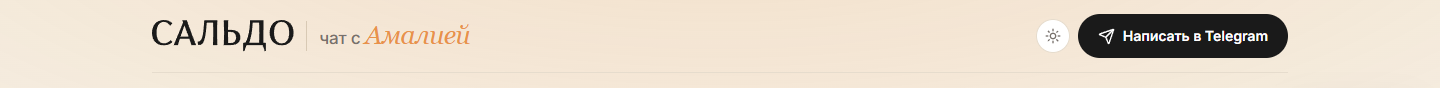
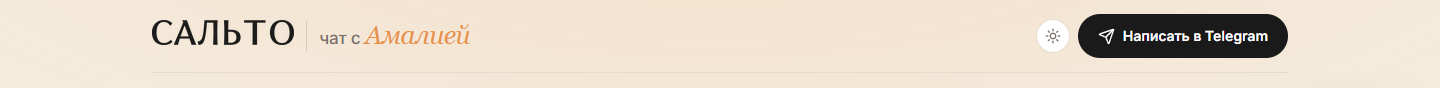
fix(client): keep the phone field one line and stop Safari zooming
Поле ввода на телефоне открывалось высотой в максимум, а в Safari страница
уезжала при фокусе. Оба дефекта про одно и то же поле, но причины разные.

Высота. Она записывалась инлайн один раз за монтирование, из одного чтения
scrollHeight, и любая причина, по которой это единственное чтение оказывалось
неверным, превращалась в поле, застрявшее на максимуме до перезагрузки: эффект
висел на изменении значения, а значение не менялось, перезаписывать было
нечем. Воспроизвести не удалось ни в Chromium, ни в WebKit, ни на версии кода
до этой правки - 41px при любом размере окна, включая специально растянутый
родитель и шпион на геттере scrollHeight. Поэтому убрано не предполагаемое
место поломки, а само место, где число могло застрять: высота теперь приходит
из CSS (field-sizing: content, max-height как потолок), инлайн-стиля нет
вообще. Побочно выяснилось, что field-sizing меряет и плейсхолдер: на 320px
строка подсказки переносилась и тянула поле на две строки, поэтому
::placeholder получил white-space: nowrap.

Зум. Поле наследовало 15px от body, а iOS Safari зумит страницу при фокусе на
поле с размером шрифта меньше 16px и обратно не раззумивает: страница
оставалась увеличенной и сдвинутой, шапка за верхним краем, вернуть только
перезагрузкой. Ниже брейкпоинта поле теперь 16px - это порог, а не вкус.

Пустой экран на телефоне. Примеры вопросов скрыты: четыре белые карточки с той
же рамкой и скруглением, что и у поля, стоят прямо над ним, и экран читался
[…]

Changed region(s): [[0.0938, 0.2273, 0.2188, 0.5682]]

diff --git a/client/src/components/Logo.tsx b/client/src/components/Logo.tsx
@@ -19,11 +19,12 @@ export function Logo({ className, height = 20 }: Props) {
       fill="none"
       xmlns="http://www.w3.org/2000/svg"
       role="img"
-      aria-label="Салдо"
+      aria-label="Салто"
       focusable="false"
     >
       <path
-        d="M13.3192 28.4783C4.15922 28.4783 -0.000781178 22.2783 -0.000781178 14.2383C-0.000781178 6.59828 4.55922 -0.00171995 13.2792 -0.00171995C17.4392 -0.00171995 20.6392 1.39828 22.7992 3.63828L20.5192 6.55828C18.4392 3.63828 16.5592 2.15828 13.2792 2.15828C7.03922 2.15828 5.11922 8.27828 5.11922 14.2383C5.11922 20.1583 6.95922 26.2783 13.5992 26.2783C16.6792 26.2783 19.1192 24.7183 21.0392 22.5983L22.9992 24.8383C20.8392 27.0383 17.6392 28.4783 13.3192 28.4783ZM41.1695 18.6783C39.7295 14.4783 38.1295 10.1983 36.5295 6.19828C35.1295 9.99828 33.4495 14.4783 32.0095 18.6783H41.1695ZM24.3695 28.2383C27.9295 19.6783 32.0495 10.5583 35.0095 2.51828C34.6495 1.71828 34.3295 0.95828 33.9295 0.238279H39.2095C41.5695 7.15828 46.5295 20.9583 49.6495 28.2383H44.3295C43.6495 26.0383 42.8895 23.6383 42.0495 21.1583H31.2095C30.3695 23.7183 29.6495 26.1983 29.2095 28.2383H24.3695ZM51.2617 24.4383C53.7017 24.5183 55.3417 22.6783 56.1017 20.7183C57.8217 16.1183 58.2617 7.87828 58.8217 0.238279H73.5417C73.1417 8.67828 73.1817 18.7183 73.5417 28.2383H68.5817C69.0217 19.7583 69.1017 11.1983 68.7417 2.95828H61.5817C61.2617 7.95828 60.5017 16.7583 59.0617 21.6783C57.9817 25.5583 56.6617 28.5583 51.9817 28.2383L51.2617 24.4383ZM80.7445 28.2383C81.2645 18.9983 81.2645 9.67828 80.7445 0.238279H85.7445C85.6245 3.87828 85.5445 7.47828 85.5045 11.0783H88.4645C94.0245 11.0783 99.3845 12.9583 99.3845 19.6783C99.3845 26.3983 93.9445 28.2383 88.2245 28.2383H80.7445ZM88.5445 25.9183C91.4245 25.9183 94.6645 24.5183 94.6645 19.6783C94.6645 14.7983 91.4245 13.3983 88.5445 13.3983H85.5045C85.4645 17.5583 85.5445 21.7183 85.6645 25.9183H88.5445ZM120.526 25.5983C120.806 17.9583 120.846 10.3983 120.526 2.95828H113.206C113.086 8.83828 111.926 19.3583 109.286 25.5983H120.526ZM105.166 25.2783C108.686 19.8783 110.366 7.83828 110.286 0.238279H125.406C125.086 8.67828 125.086 17.1983 125.326 25.5983L128.126 25.7183V35.0783H126.686C126.126 32.9983 125.286 30.3183 124.366 28.2383H106.326C105.406 30.3183 104.566 32.9983 104.006 35.0783H102.566V25.7183L105.166 25.2783ZM145.823 28.4783C136.503 28.4783 132.343 21.4783 132.343 14.2383C132.343 6.99828 136.503 -0.00171995 145.823 -0.00171995C155.103 -0.00171995 159.263 6.99828 159.263 14.2383C159.263 21.4783 155.103 28.4783 145.823 28.4783ZM145.823 26.2783C152.503 26.2783 154.343 19.6383 154.343 14.2383C154.343 8.79828 152.503 2.15828 145.823 2.15828C139.343 2.15828 137.303 8.39828 137.303 14.2383C137.303 19.6383 139.143 26.2783 145.823 26.2783Z"
+        transform="translate(0 3.88)"
+        d="M13.3192 28.4783C4.15922 28.4783 -0.000781178 22.2783 -0.000781178 14.2383C-0.000781178 6.59828 4.55922 -0.00171995 13.2792 -0.00171995C17.4392 -0.00171995 20.6392 1.39828 22.7992 3.63828L20.5192 6.55828C18.4392 3.63828 16.5592 2.15828 13.2792 2.15828C7.03922 2.15828 5.11922 8.27828 5.11922 14.2383C5.11922 20.1583 6.95922 26.2783 13.5992 26.2783C16.6792 26.2783 19.1192 24.7183 21.0392 22.5983L22.9992 24.8383C20.8392 27.0383 17.6392 28.4783 13.3192 28.4783ZM41.1695 18.6783C39.7295 14.4783 38.1295 10.1983 36.5295 6.19828C35.1295 9.99828 33.4495 14.4783 32.0095 18.6783H41.1695ZM24.3695 28.2383C27.9295 19.6783 32.0495 10.5583 35.0095 2.51828C34.6495 1.71828 34.3295 0.95828 33.9295 0.238279H39.2095C41.5695 7.15828 46.5295 20.9583 49.6495 28.2383H44.3295C43.6495 26.0383 42.8895 23.6383 42.0495 21.1583H31.2095C30.3695 23.7183 29.6495 26.1983 29.2095 28.2383H24.3695ZM51.2617 24.4383C53.7017 24.5183 55.3417 22.6783 56.1017 20.7183C57.8217 16.1183 58.2617 7.87828 58.8217 0.238279H73.5417C73.1417 8.67828 73.1817 18.7183 73.5417 28.2383H68.5817C69.0217 19.7583 69.1017 11.1983 68.7417 2.95828H61.5817C61.2617 7.95828 60.5017 16.7583 59.0617 21.6783C57.9817 25.5583 56.6617 28.5583 51.9817 28.2383L51.2617 24.4383ZM80.7445 28.2383C81.2645 18.9983 81.2645 9.67828 80.7445 0.238279H85.7445C85.6245 3.87828 85.5445 7.47828 85.5045 11.0783H88.4645C94.0245 11.0783 99.3845 12.9583 99.3845 19.6783C99.3845 26.3983 93.9445 28.2383 88.2245 28.2383H80.7445ZM88.5445 25.9183C91.4245 25.9183 94.6645 24.5183 94.6645 19.6783C94.6645 14.7983 91.4245 13.3983 88.5445 13.3983H85.5045C85.4645 17.5583 85.5445 21.7183 85.6645 25.9183H88.5445ZM103.4 0.238279H127.3V2.95828H117.85V28.2383H112.85V2.95828H103.4ZM145.823 28.4783C136.503 28.4783 132.343 21.4783 132.343 14.2383C132.343 6.99828 136.503 -0.00171995 145.823 -0.00171995C155.103 -0.00171995 159.263 6.99828 159.263 14.2383C159.263 21.4783 155.103 28.4783 145.823 28.4783ZM145.823 26.2783C152.503 26.2783 154.343 19.6383 154.343 14.2383C154.343 8.79828 152.503 2.15828 145.823 2.15828C139.343 2.15828 137.303 8.39828 137.303 14.2383C137.303 19.6383 139.143 26.2783 145.823 26.2783Z"
         fill="currentColor"
       />
     </svg>

diff --git a/client/src/styles/app.css b/client/src/styles/app.css
@@ -965,19 +965,39 @@ button {
   box-shadow: 0 0 0 3px var(--accent-soft), var(--shadow-card);
 }
 
+/*
+ * The box follows the text, and the browser does the measuring: `field-sizing`
+ * sizes the element to its content, `max-height` is the ceiling, and the field
+ * scrolls inside itself past it. There used to be a `useLayoutEffect` writing an
+ * inline height here from a single read of `scrollHeight` - and one read taken
+ * once per mount is one chance to get it wrong, permanently. Browsers without
+ * `field-sizing` fall back to the single row `rows={1}` asks for.
+ */
 .composer__input {
   width: 100%;
+  field-sizing: content;
   max-height: 200px;
   padding: 9px 0;
   border: 0;
   background: transparent;
   resize: none;
+  overflow-y: auto;
   line-height: 1.5;
   outline: none;
 }
 
 .composer__input::placeholder {
   color: var(--muted);
+  /*
+   * One line, always. With `field-sizing: content` the placeholder is part of
+   * what the box is measured against, and on a 320px screen the sentence wraps
+   * and takes the field to two lines with it - an empty field that opens 66px
+   * tall for no reason the person can see. Held to a single line it ellipsises
+   * instead, and the field stays the height of one row wherever it is.
+   */
+  white-space: nowrap;
+  overflow: hidden;
+  text-overflow: ellipsis;
 }
 
 .button {
@@ -1453,8 +1473,56 @@ kbd {
     display: none;
   }
 
+  /*
+   * Sixteen pixels, and it is not a taste decision. iOS Safari zooms the page in
+   * when a field whose font-size is below 16px takes focus - this field inherits
+   * the 15px body size - and it does not zoom back out when the field is left.
+   * The page stays scaled and panned, the header half off the top of the screen,
+   * and only a reload brings it back. Sixteen is the threshold, not a
+   * preference, and that is the only reason the size is raised here rather than
+   * everywhere.
+   */
+  .composer__input {
+    font-size: 16px;
+    /*
+     * A shorter ceiling than the wide screen's 200px: here the field shares the
+     * screen with a heading, a lead and the switch below it, and past about four
+     * lines it is the conversation that runs out of room, not the question.
+     */
+    max-height: 116px;
+  }
+
+  /*
+   * The example questions go on a phone. They are white cards with a hairline
+   * border and a rounded corner - the field's own shape - stacked directly above
+   * the field, and the screen reads as five inputs, four of which do nothing
+   * useful when tapped by mistake. What is left is the heading, the lead and the
+   * field, which is the whole of an empty state a phone needs.
+   */
   .empty__suggestions {
-    grid-template-columns: minmax(0, 1fr);
+    display: none;
+  }
+
+  /*
+   * With the examples gone the field closes the lead directly, and the two
+   * margins that used to sit either side of the list would stack into a 44px
+   * hole under the last line of text. The lead's own margin is the gap.
+   */
+  .empty__composer {
+    margin-top: 0;
+  }
+
+  /*
+   * The block is centred as a whole, and the field goes up with it instead of
+   * sitting at the bottom of the column.
+   *
+   * `margin-block: auto` rather than `justify-content: center` on the log: auto
+   * margins take the free space when there is some and collapse to zero when
+   * there is not, so the heading keeps its top on a screen too short for the
+   * block - which is what an iPhone with the keyboard up is.
+   */
+  .empty {
+    margin-block: auto;
   }
 
   .hint:nth-child(2) {

diff --git a/client/src/App.tsx b/client/src/App.tsx
@@ -9,7 +9,6 @@ import { MessageComposer } from './components/MessageComposer';
 import { TypingIndicator } from './components/TypingIndicator';
 import { useAnswerMode } from './hooks/useAnswerMode';
 import { useChat } from './hooks/useChat';
-import { useMediaQuery } from './hooks/useMediaQuery';
 import { useSkin } from './hooks/useSkin';
 import { useStickToBottom } from './hooks/useStickToBottom';
 import { useTheme } from './hooks/useTheme';
@@ -94,14 +93,20 @@ export default function App() {
   const isBlank = visibleMessages.length === 0 && !isGenerating;
 
   /*
-   * On a phone the empty state is taller than the log, so anything inside it
-   * can end up below the fold - and the field is the one thing that must never
-   * be. Below the same breakpoint the stylesheet switches to the phone layout,
-   * so the field becomes a row of the column there, pinned to the bottom, and
-   * the example questions scroll above it. The breakpoint is the stylesheet's
-   * 680px; the two have to agree.
+   * The field used to be a row of this column on a phone and a part of the
+   * empty state everywhere else, because the empty state - a heading, a lead
+   * and four example questions - was taller than the log, and anything inside
+   * it could scroll out of reach. That reasoning is gone: the examples are
+   * hidden below the breakpoint, the keyboard hints were already, and the field
+   * no longer grows on its own. What is left is short enough to fit on the
+   * shortest phone, so the field stays where it reads best - directly under the
+   * heading, closing the block - and the breakpoint has nothing left to decide.
+   *
+   * Centring is done by the stylesheet with auto margins rather than by
+   * `justify-content`, which is what keeps it honest when the block does not
+   * fit: auto margins collapse to zero on overflow, so the top of the heading
+   * is never the part that goes missing.
    */
-  const narrow = useMediaQuery('(max-width: 680px)');
 
   // `!isBlank` and not `true`: sticking to the bottom of an empty log scrolls
   // the centred empty state up under the header. See the hook for the numbers.
@@ -148,10 +153,7 @@ export default function App() {
           data-blank={isBlank}
         >
           {isBlank ? (
-            <EmptyState
-              onSuggestion={sendMessage}
-              composer={narrow ? undefined : composer}
-            />
+            <EmptyState onSuggestion={sendMessage} composer={composer} />
           ) : (
             <div className="chat__thread">
               {visibleMessages.map((message) => (
@@ -191,7 +193,7 @@ export default function App() {
           />
         ) : null}
 
-        {isBlank && !narrow ? null : composer}
+        {isBlank ? null : composer}
 
         {/*
           The last row of the chat column. On a wide screen the stylesheet pins

diff --git a/client/src/lib/appearance.ts b/client/src/lib/appearance.ts
@@ -6,7 +6,7 @@ import type { SkinName, ThemeMode } from '../types/chat';
  * They are independent on purpose. Brightness (`data-mode`) is a property of
  * the palette; appearance (`data-skin`) is a whole design system. That is why
  * they are two attributes on <html> rather than one `theme` string: a person can
- * want the САЛЬДО palette after dark without that also meaning "the other
+ * want the САЛЬТО palette after dark without that also meaning "the other
  * design", and vice versa. Both are applied by the inline script in index.html
  * before the first paint, so neither flashes.
  */
@@ -18,7 +18,7 @@ import type { SkinName, ThemeMode } from '../types/chat';
  *
  * There used to be three palettes on a second axis (`cream | indigo | mint`)
  * with a row of swatches in the header. It was removed: the chat is a client
- * of САЛЬДО, and offering three colourways of someone else's brand made the
+ * of САЛЬТО, and offering three colourways of someone else's brand made the
  * screen look like a theme demo rather than a product. What is left is the one
  * palette the service actually uses, in the two brightnesses the assignment
  * asked for.
@@ -34,7 +34,7 @@ export interface Skin {
  * Two appearances for the same chat.
  *
  * `saldo` is the product: the palette and typography of saldo.chat, which is
- * what a client of САЛЬДО should see. `portfolio` is the same components
+ * what a client of САЛЬТО should see. `portfolio` is the same components
  * dressed in the visual language of a personal portfolio page - near-black
  * paper, hairline rules, Playfair Display headings, wide-tracked monospace
  * labels, square corners, a pale sand accent.
@@ -45,8 +45,8 @@ export interface Skin {
  * React tree branches on the skin - only `data-skin` on <html> changes.
  */
 export const SKINS: Skin[] = [
-  { name: 'saldo', label: 'САЛЬДО Original' },
-  { name: 'portfolio', label: 'САЛЬДО New' },
+  { name: 'saldo', label: 'САЛЬТО Original' },
+  { name: 'portfolio', label: 'САЛЬТО New' },
 ];
 
 export const DEFAULT_SKIN: SkinName = 'saldo';

diff --git a/client/src/components/MessageComposer.tsx b/client/src/components/MessageComposer.tsx
@@ -1,7 +1,5 @@
-import { useEffect, useLayoutEffect, useRef, useState } from 'react';
+import { useEffect, useRef, useState } from 'react';
 import { ArrowUp, Square } from 'lucide-react';
-
-const MAX_TEXTAREA_HEIGHT = 200;
 
 interface Props {
   isGenerating: boolean;
@@ -13,14 +11,26 @@ export function MessageComposer({ isGenerating, onSend, onStop }: Props) {
   const [value, setValue] = useState('');
   const textareaRef = useRef<HTMLTextAreaElement>(null);
 
-  // Grow with the content instead of showing a scrollbar after two lines.
-  useLayoutEffect(() => {
-    const element = textareaRef.current;
-    if (!element) return;
-
-    element.style.height = 'auto';
-    element.style.height = `${Math.min(element.scrollHeight, MAX_TEXTAREA_HEIGHT)}px`;
-  }, [value]);
+  /*
+   * The field grows with what is typed, and the browser does the growing:
+   * `field-sizing: content` on `.composer__input` is CSS's own answer to "size
+   * this box to its text", with `max-height` as the ceiling and the field's own
+   * scrollbar past it.
+   *
+   * This used to be a `useLayoutEffect` that read `scrollHeight` and wrote it
+   * back as an inline height, once per mount. A number written once from one
+   * measurement is a number that can be written wrong and stay wrong: a box
+   * stretched by its parent, an extension that touches the field, a font that
+   * arrives after the read - each of them turns that single read into a field
+   * locked at the maximum, and only a reload clears it. That is what a
+   * one-line field that opens 200px tall is. A height the browser derives from
+   * the content every frame cannot get stuck that way, and it costs no
+   * JavaScript at all.
+   *
+   * Where `field-sizing` is not supported yet (Safari, Firefox) the field keeps
+   * the single row `rows={1}` asks for and scrolls its own content. Typing more
+   * than one line still works; it is the box that does not follow.
+   */
 
   useEffect(() => {
     textareaRef.current?.focus();

diff --git a/client/index.html b/client/index.html
@@ -5,7 +5,7 @@
     <meta name="viewport" content="width=device-width, initial-scale=1.0" />
     <meta
       name="description"
-      content="Чат с Амалией, бухгалтером-консультантом сервиса САЛЬДО: расходы, первичные документы и учёт входящего НДС."
+      content="Чат с Амалией, бухгалтером-консультантом сервиса САЛЬТО: расходы, первичные документы и учёт входящего НДС."
     />
     <meta name="color-scheme" content="light dark" />
     <!--
@@ -17,7 +17,7 @@
     <link rel="icon" href="/favicon.ico" sizes="any" />
     <link rel="icon" type="image/png" href="/favicon-32.png" sizes="32x32" />
     <link rel="apple-touch-icon" href="/apple-touch-icon.png" />
-    <title>САЛЬДО | чат с Амалией</title>
+    <title>САЛЬТО | чат с Амалией</title>
 
     <!--
       Inter carries the interface in both appearances. Playfair Display is the

diff --git a/client/src/components/AppHeader.tsx b/client/src/components/AppHeader.tsx
@@ -31,7 +31,7 @@ export function AppHeader({
         */}
         {/*
           The wordmark leads to the service it belongs to, the way a logo
-          normally does. The accessible name says where it goes: "Салдо" alone
+          normally does. The accessible name says where it goes: "Салто" alone
           reads as a heading, and a link that only repeats the brand leaves a
           screen reader user guessing whether it is a link at all.
         */}
@@ -40,7 +40,7 @@ export function AppHeader({
           href="https://saldo.chat/"
           target="_blank"
           rel="noopener noreferrer"
-          aria-label="Салдо: открыть основной сайт"
+          aria-label="Салто: открыть основной сайт"
           title="Открыть saldo.chat"
         >
           <Logo className="header__logo" height={32} />

diff --git a/server/src/services/system-prompt.test.ts b/server/src/services/system-prompt.test.ts
@@ -29,11 +29,11 @@ describe('withSystemPrompt', () => {
   it('names the assistant and keeps the domain rules in the prompt', () => {
     expect(SYSTEM_PROMPT).toContain(ASSISTANT_NAME);
     expect(SYSTEM_PROMPT).toContain('входящего НДС');
-    expect(SYSTEM_PROMPT).toContain('САЛЬДО');
+    expect(SYSTEM_PROMPT).toContain('САЛЬТО');
   });
 
   it('uses hyphens only, like the rest of the project', () => {
-    // The persona answers in the voice of САЛЬДО's own copy, and that copy is
+    // The persona answers in the voice of САЛЬТО's own copy, and that copy is
     // written with hyphens. An em dash in an answer would be the one place the
     // chat visibly stops matching the service it belongs to, so the prompt has
     // to ask the model for the same and this test pins the instruction.

diff --git a/server/src/services/dialogue-policy.ts b/server/src/services/dialogue-policy.ts
@@ -19,7 +19,7 @@ export const GREETING_OPENING =
 export const GREETING_ONGOING = 'Я администратор Амалия, чем могу вам помочь?';
 
 export const IDENTITY_ANSWER =
-  'Я администратор Амалия. Помогаю по бухгалтерскому и налоговому учёту сервиса САЛЬДО: ' +
+  'Я администратор Амалия. Помогаю по бухгалтерскому и налоговому учёту сервиса САЛЬТО: ' +
   'отчётность и налоговый учёт, расходы и первичные документы, учёт входящего НДС. ' +
   'Опишите задачу - уточню, что нужно, и подскажу следующий шаг.';
 

diff --git a/client/src/components/ThemeToggle.tsx b/client/src/components/ThemeToggle.tsx
@@ -10,7 +10,7 @@ interface Props {
  * Light and dark, one button.
  *
  * There used to be a second axis here - three palettes chosen with a row of
- * swatches - and it was removed. The chat is a client of САЛЬДО, and offering
+ * swatches - and it was removed. The chat is a client of САЛЬТО, and offering
  * three colourways of someone else's brand made the header read as a theme
  * demo. What is left is the one palette the service uses, in the two
  * brightnesses the assignment asked for.

diff --git a/server/src/services/dialogue-policy.test.ts b/server/src/services/dialogue-policy.test.ts
@@ -119,7 +119,7 @@ describe('cannedAnswer', () => {
     expect(cannedAnswer('identity', true)).toBe(IDENTITY_ANSWER);
     expect(cannedAnswer('identity', false)).toBe(IDENTITY_ANSWER);
     expect(IDENTITY_ANSWER).toContain('администратор Амалия');
-    expect(IDENTITY_ANSWER).toContain('САЛЬДО');
+    expect(IDENTITY_ANSWER).toContain('САЛЬТО');
     expect(IDENTITY_ANSWER).toContain('входящего НДС');
   });
 
